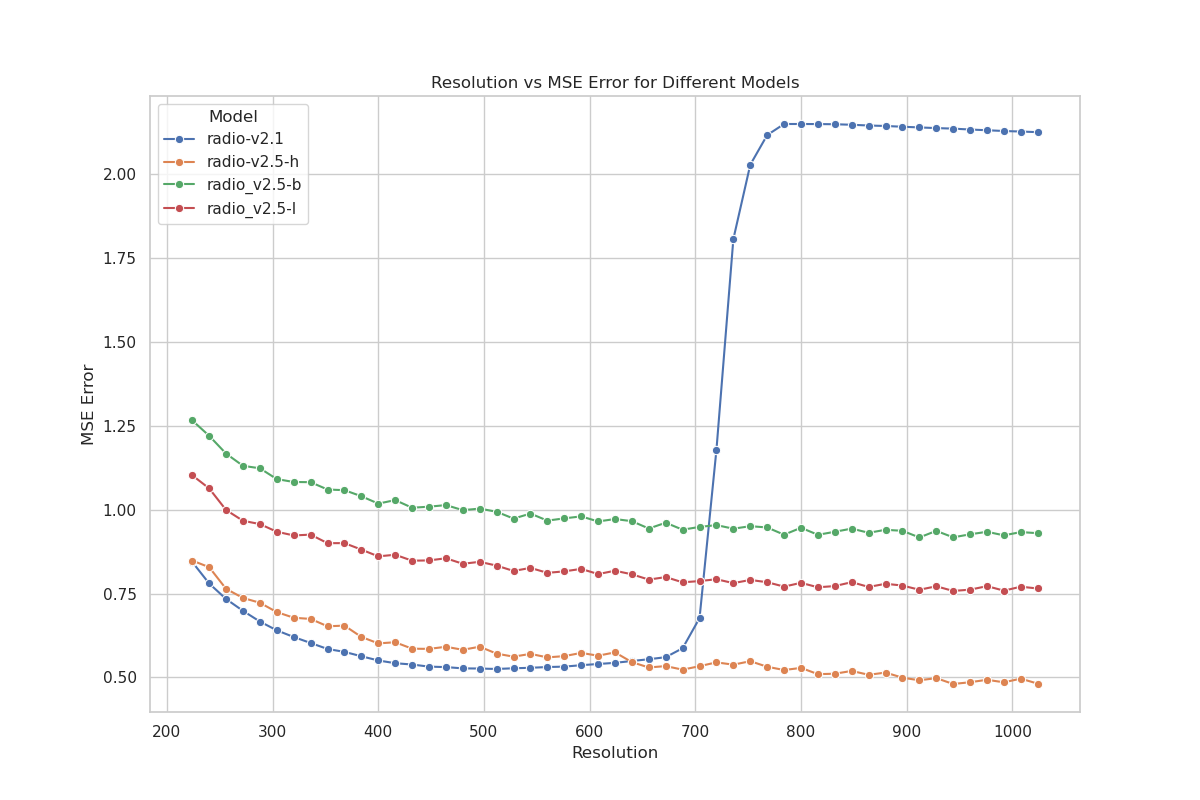
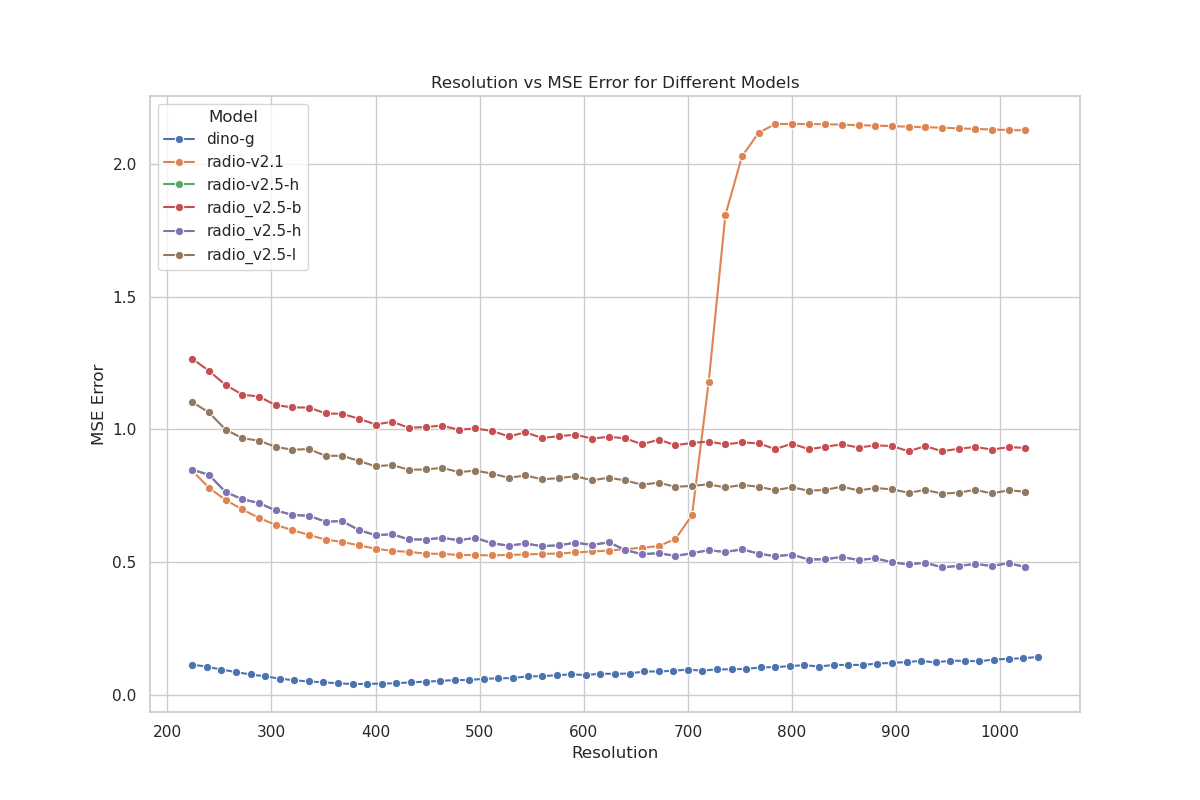
Added support for dino-g radio backbone

diff --git a/examples/mode_switching.py b/examples/mode_switching.py
@@ -87,7 +87,9 @@ def main(rank: int = 0, world_size: int = 1):
     dinov2.cuda().eval()
     dinov2_preprocessor.cuda().eval()
 
-    resolutions = list(range(224, 1024 + 16, 16))
+    first_res = int(math.floor(224 / radio.patch_size) * radio.patch_size)
+    final_res = int(math.ceil(1024 / radio.patch_size) * radio.patch_size)
+    resolutions = list(range(first_res, final_res + radio.patch_size, radio.patch_size))
 
     # Get the subset of resolutions for this rank
     resolutions = resolutions[rank::world_size]
@@ -99,7 +101,7 @@ def main(rank: int = 0, world_size: int = 1):
         transforms.ToDtype(torch.float32, scale=True),
     ])
     transform = transforms.Compose([
-        ResizeTransform([512, 512], resize_multiple=16),
+        ResizeTransform([512, 512], resize_multiple=radio.patch_size),
         transforms.CenterCrop([512, 512]),
         transforms.ToImage(),
         transforms.ToDtype(torch.float32, scale=True),
@@ -120,7 +122,7 @@ def main(rank: int = 0, world_size: int = 1):
     bins = dict()
 
     for res in tqdm(resolutions, desc="Resolutions", disable=rank > 0, position=0, leave=True):
-        dv2_res = res * 14 // 16
+        dv2_res = res * 14 // radio.patch_size
         update_resolution(transform_dv2, dv2_res)
 
         update_resolution(transform, res)
@@ -131,7 +133,7 @@ def main(rank: int = 0, world_size: int = 1):
         cov_bb: torch.Tensor = None
         cov_bb_ct = 0
 
-        for i, sample in tqdm(enumerate(dataset), total=args.n, disable=rank > 0, desc=f'{res}', position=1, leave=True):
+        for i, sample in tqdm(enumerate(dataset), total=args.n, disable=rank > 0, desc=f'{res}', position=1, leave=False):
             if i == args.n:
                 break
 
@@ -175,7 +177,9 @@ def main(rank: int = 0, world_size: int = 1):
         # if rank == 0:
         #     print(f'Backbone Feature Variance:\n{cov_bb.diag()}')
 
-        res_matched = F.interpolate(res_features, size=dino_features.shape[-2:], mode='bilinear', align_corners=True)
+        res_matched = res_features
+        if res_features.shape != dino_features.shape:
+            res_matched = F.interpolate(res_features, size=dino_features.shape[-2:], mode='bilinear', align_corners=True)
 
         cos_error = 1 - F.cosine_similarity(res_matched, dino_features, dim=1).mean()
         mse_error = F.mse_loss(res_matched, dino_features, reduction='mean')

diff --git a/radio/extra_models.py b/radio/extra_models.py
@@ -1,4 +1,5 @@
 from distutils.version import LooseVersion
+from typing import Optional, Tuple
 import warnings
 
 import torch
@@ -59,5 +60,68 @@ def _get_paligemma_model(repo: str, embed_dim: int = None, dtype: torch.dtype = 
 @register_model
 def paligemma_896_student(**kwargs):
     model = _get_paligemma_model('google/paligemma-3b-pt-896', embed_dim=1152, dtype=None)
+
+    return model
+
+
+def _load_dino_v2(dino_v2_model, cache_dir: Optional[str] = None, pretrained=True, **kwargs):
+    if cache_dir:
+        torch.hub.set_dir(cache_dir)
+    model = torch.hub.load(
+        'facebookresearch/dinov2',
+        dino_v2_model,
+        pretrained=pretrained,
+        # **kwargs,
+    )
+    return model
+
+
+class DinoWrapper(nn.Module):
+    def __init__(self, dino_model: nn.Module):
+        super().__init__()
+
+        self.inner = dino_model
+        dino_model.blocks = nn.Sequential(*dino_model.blocks)
+
+    @property
+    def embed_dim(self):
+        return self.inner.embed_dim
+
+    @property
+    def patch_size(self):
+        return self.inner.patch_size
+
+    @property
+    def num_cls_tokens(self):
+        return getattr(self.inner, 'num_tokens', 1)
+
+    @property
+    def num_registers(self):
+        return getattr(self.inner, 'num_register_tokens', 0)
+
+    @property
+    def num_summary_tokens(self):
+        return self.num_cls_tokens + self.num_registers
+
+    def forward(self, *args, **kwargs) -> Tuple[torch.Tensor, torch.Tensor]:
+        parts = self.inner.forward_features(*args, **kwargs)
+
+        cls_token = parts['x_norm_clstoken']
+        features = parts['x_norm_patchtokens']
+
+        return cls_token, features
+
+    def forward_features(self, x: torch.Tensor):
+        x = self.inner.prepare_tokens_with_masks(x)
+        x = self.inner.blocks(x)
+        x_norm = self.inner.norm(x)
+
+        return x_norm[:, 0], x_norm[:, self.num_summary_tokens:]
+
+
+@register_model
+def dino_v2_g_student(**kwargs):
+    model = _load_dino_v2('dinov2_vitg14_reg', pretrained=False)
+    model = DinoWrapper(model)
 
     return model
